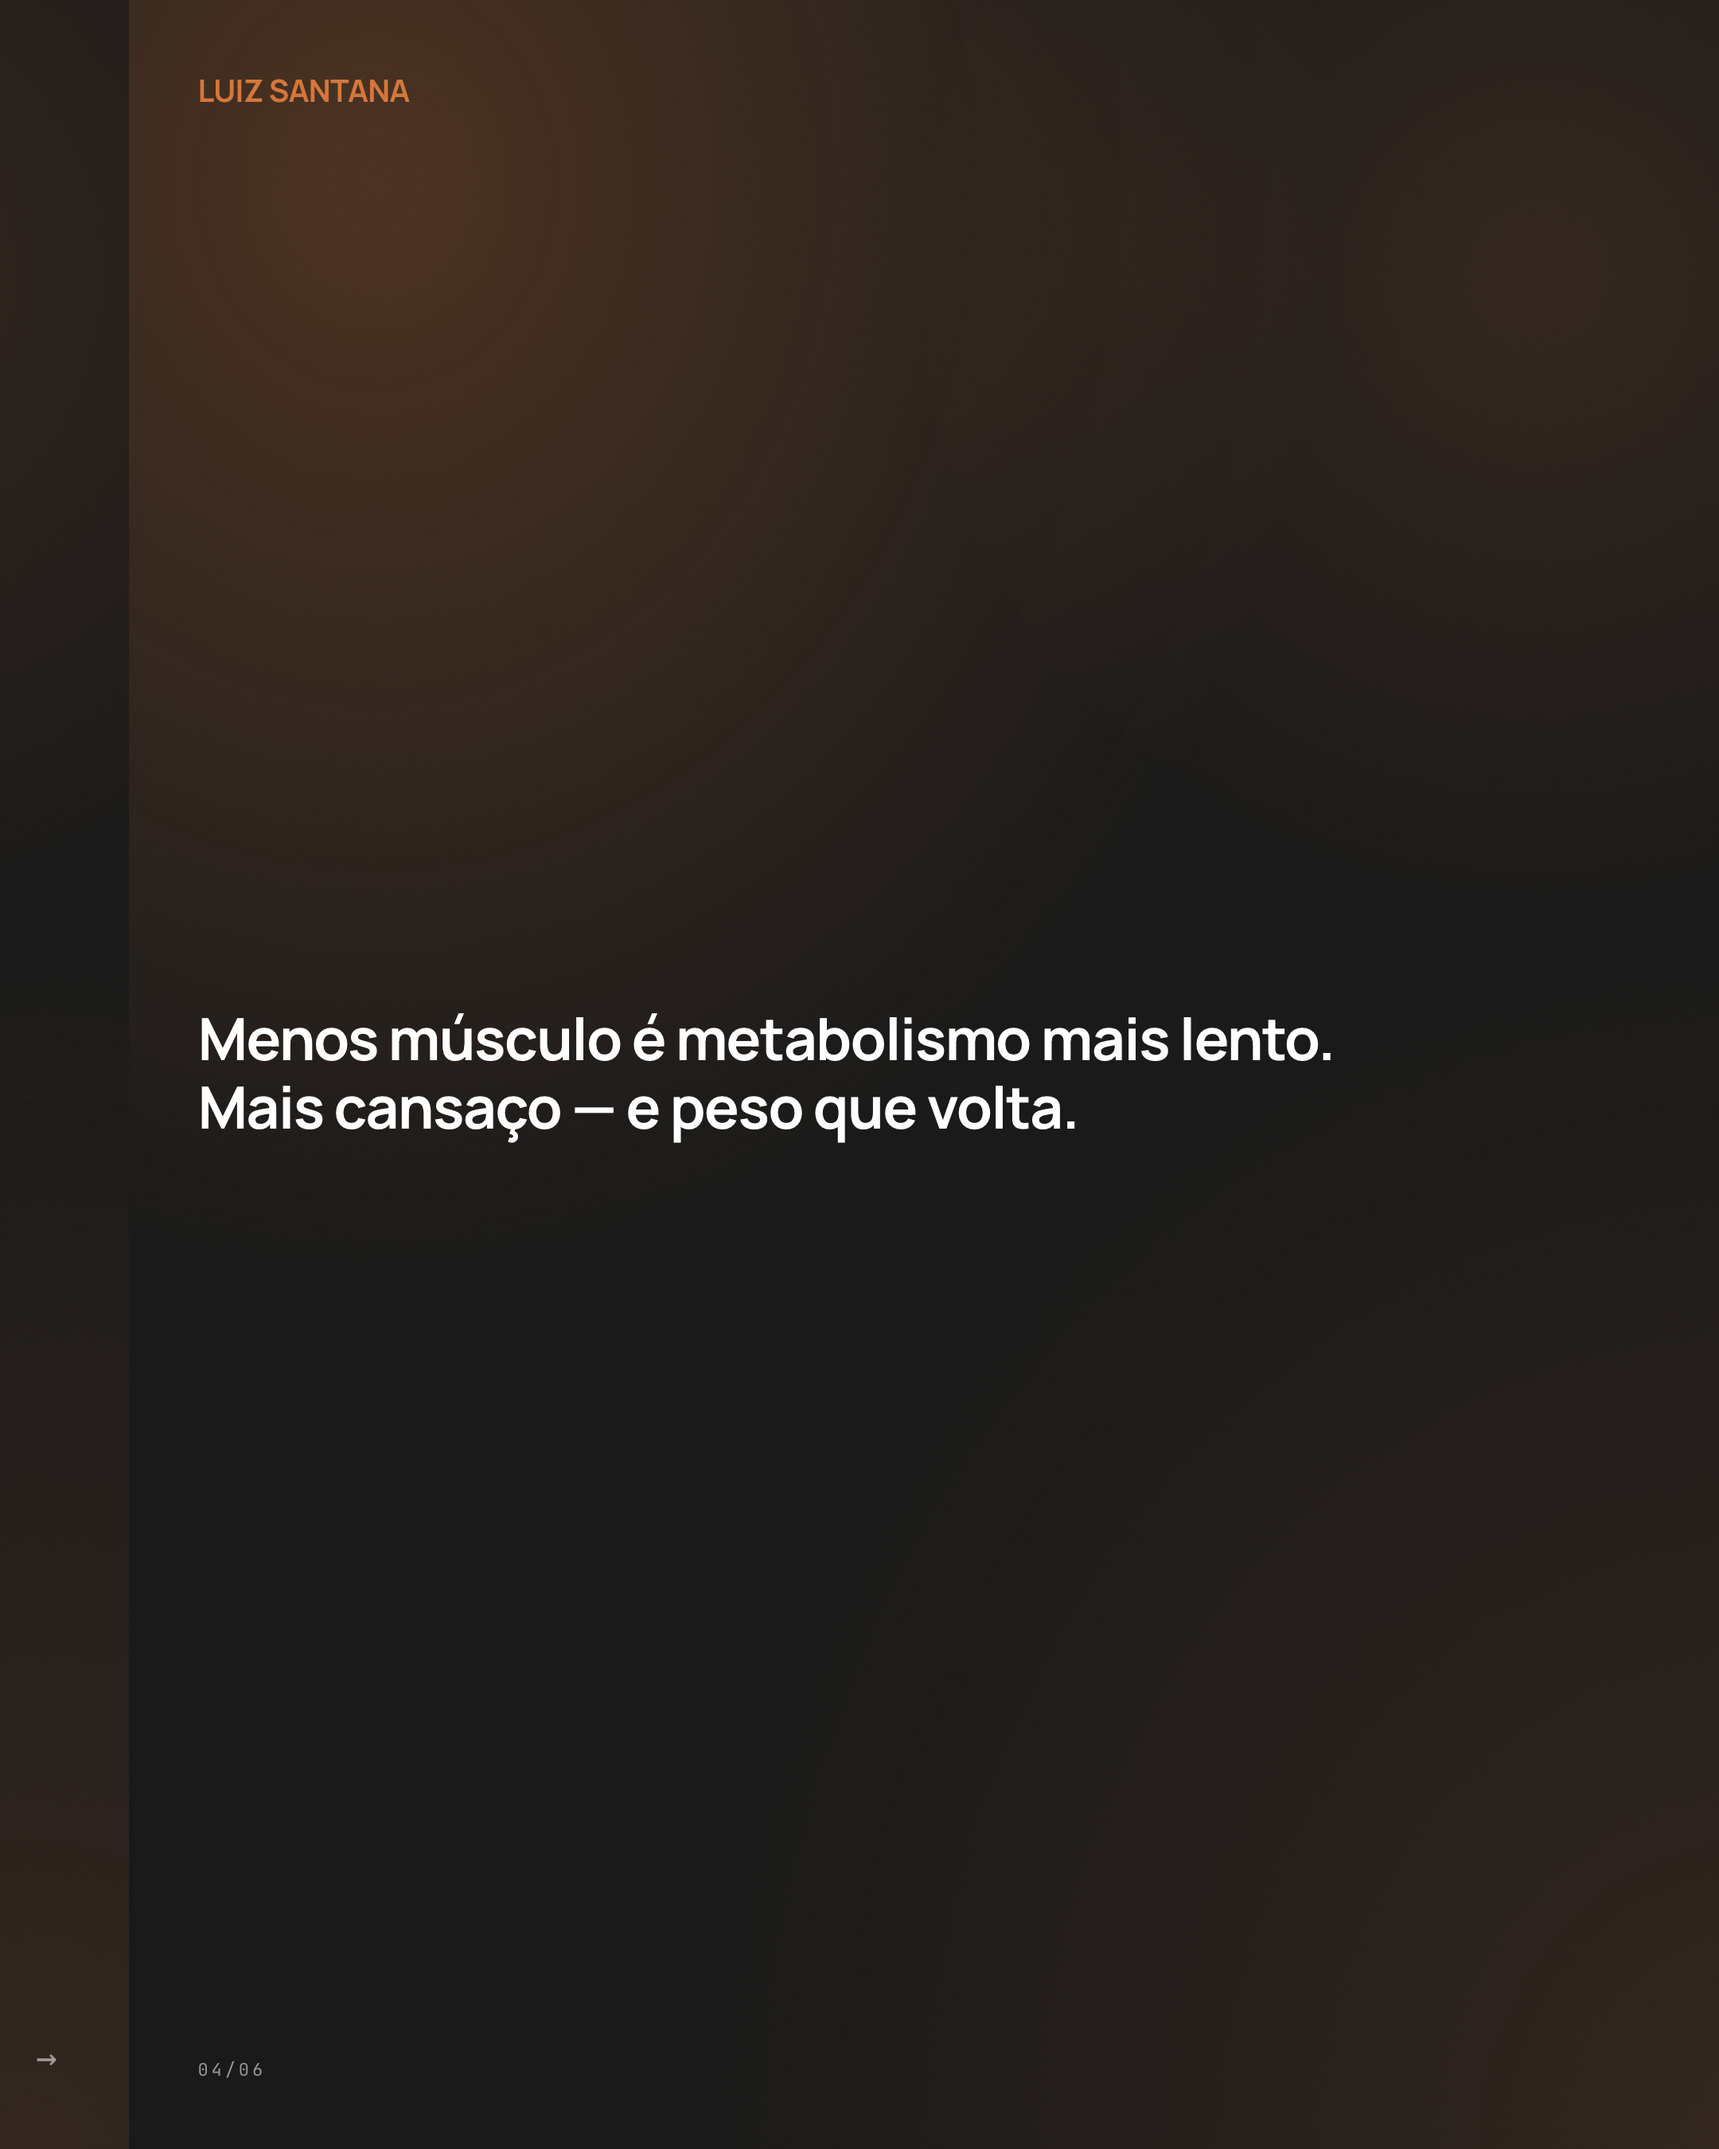
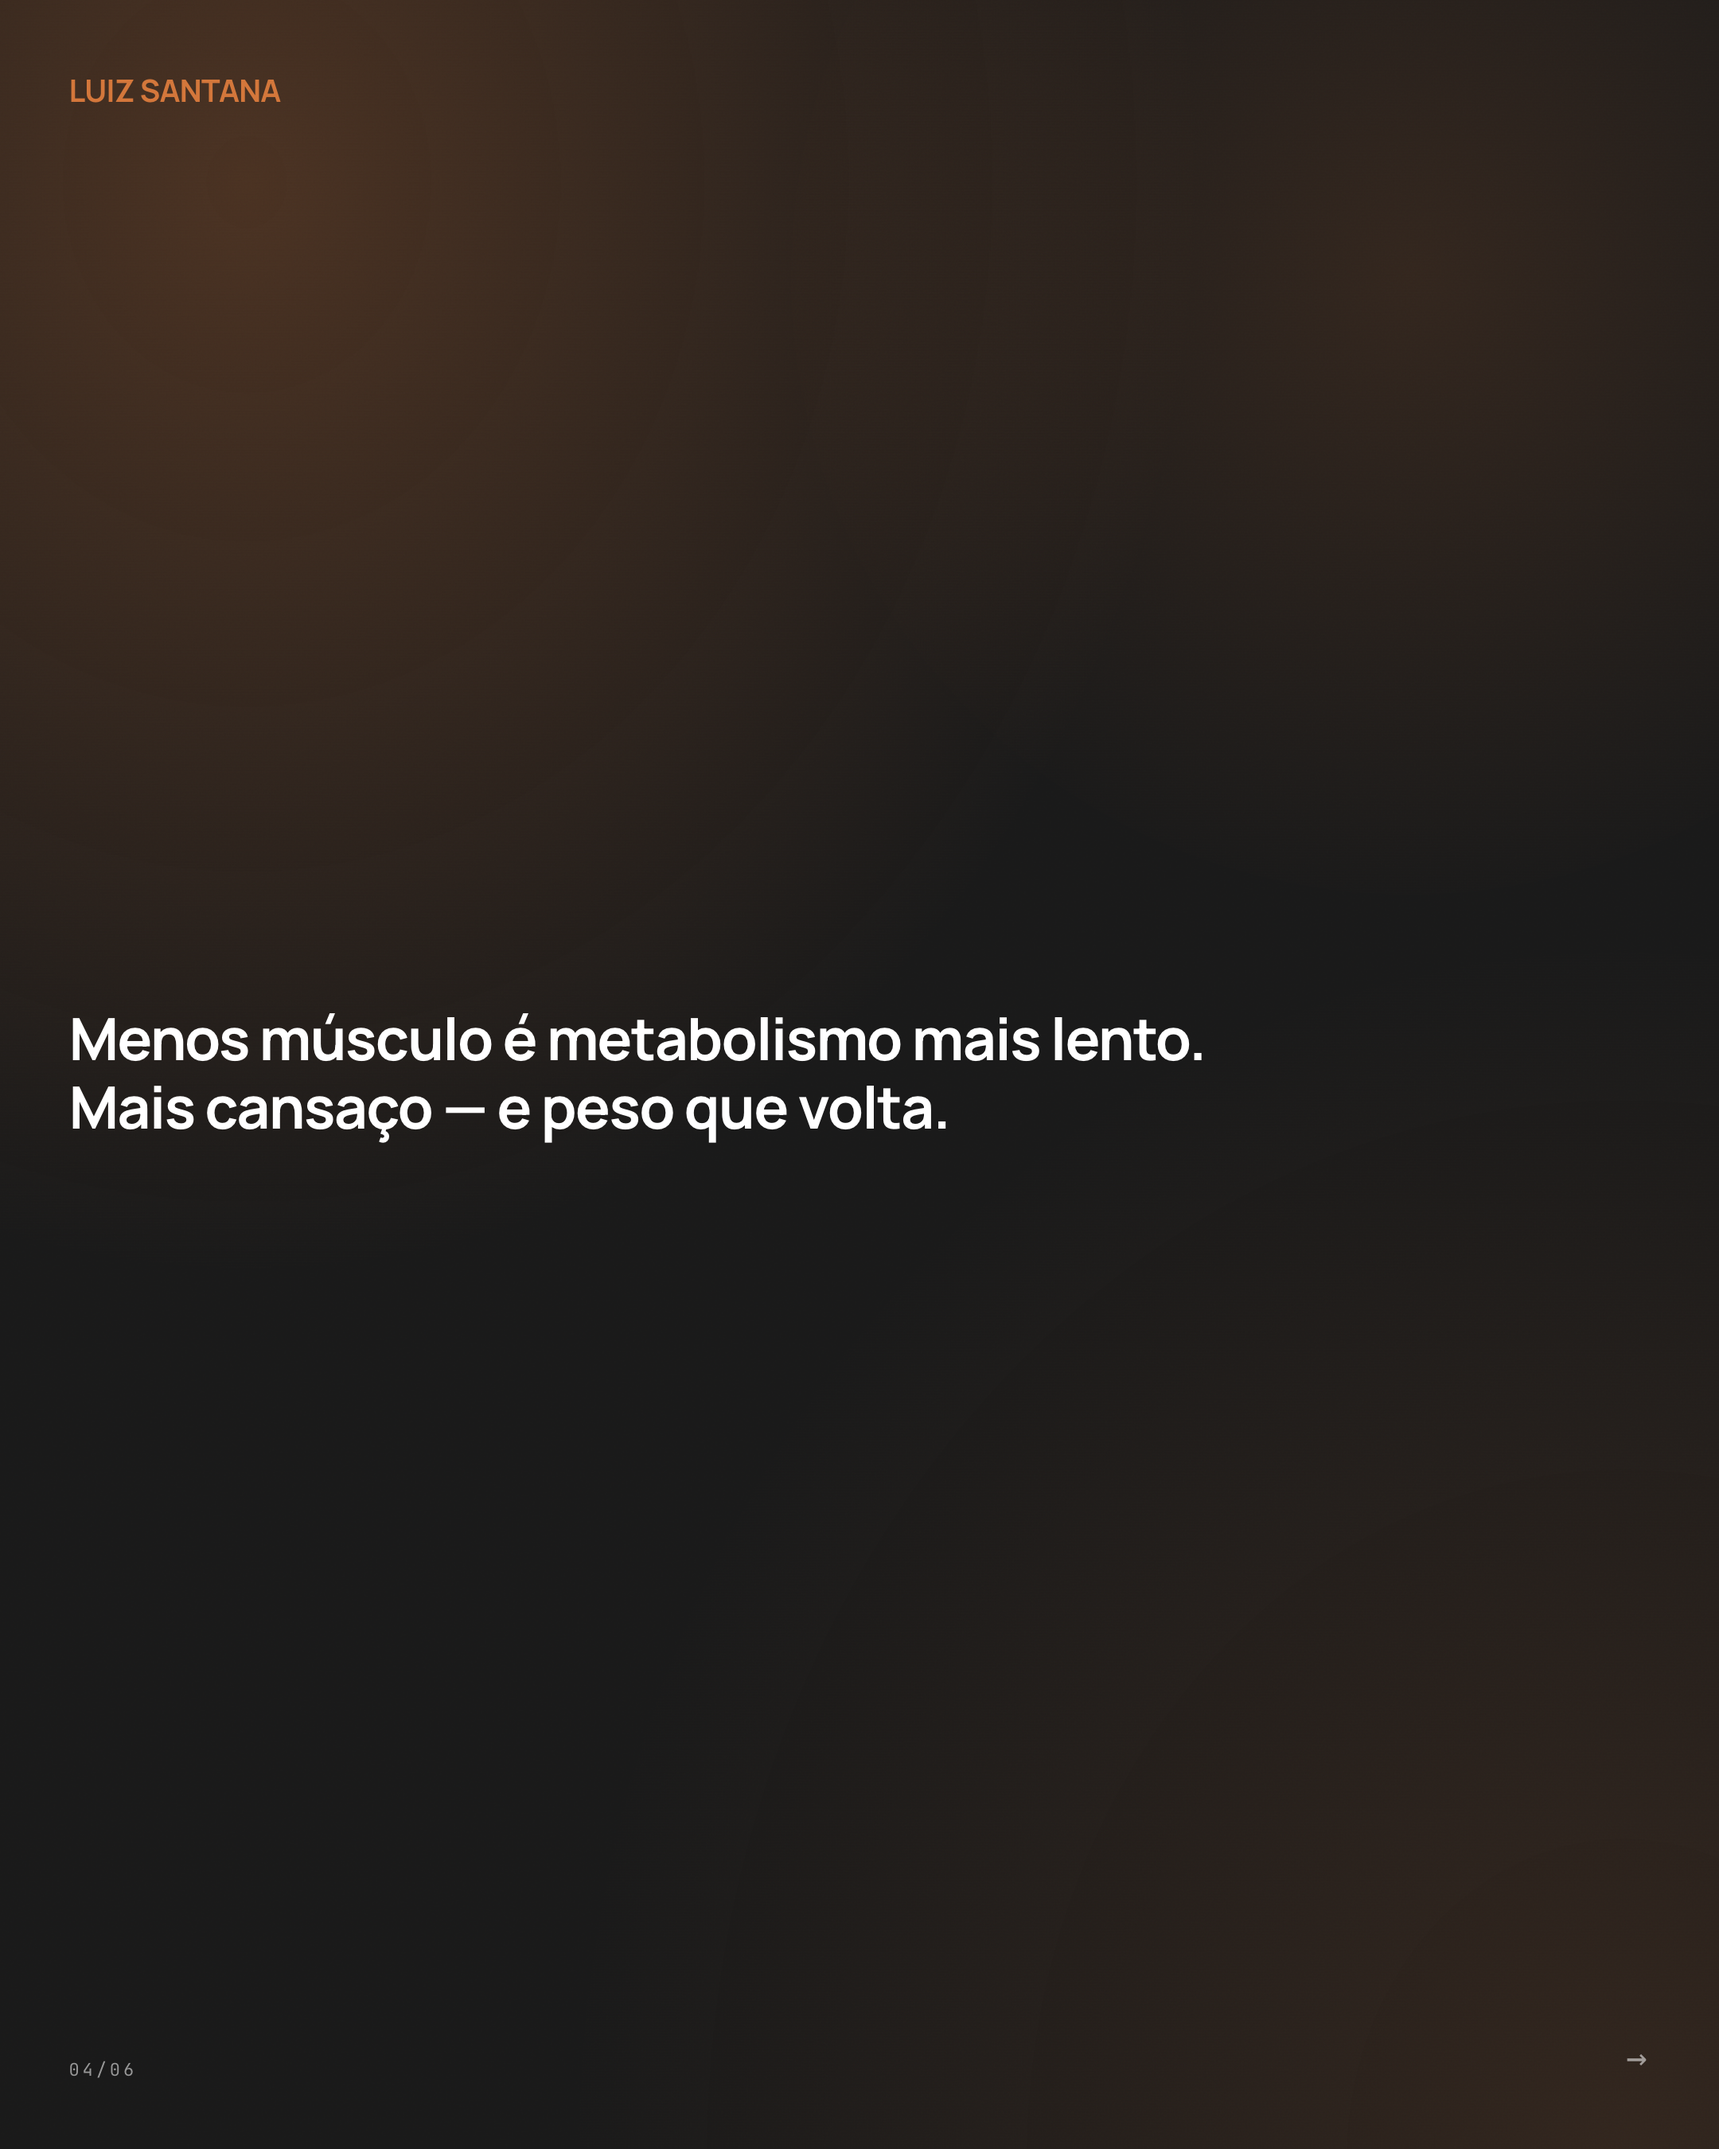
fix(luiz): capa VERDADEIRAMENTE centrada — override text-align: center !important no #slide-1 e #slide-2 (v2)
Sincronizar HTML com override que estava só no content-machine.

Changed region(s): [[0.031, 0.4667, 0.7755, 0.5289], [0.0, 0.0, 0.2481, 0.1867], [0.0, 0.9644, 0.062, 1.0]]

diff --git a/public/brands/luiz_santana/output/2026-05/carrosseis/c01-barreiras.html b/public/brands/luiz_santana/output/2026-05/carrosseis/c01-barreiras.html
@@ -168,6 +168,12 @@ h1, h2, h3, p, blockquote, .num {
   max-width: min(880px, 92%) !important; 
   margin: 0 !important;
 }
+/* Capa: reverter para centrado (Lucca feedback 19-jun) */
+#slide-1 .slide__body h1, #slide-2 .slide__body h1 { 
+  text-align: center !important; 
+  max-width: 22ch !important; 
+  text-wrap: balance !important;
+}
 .slide--photo .slide__body h1 { font-size: clamp(26px, 3.8vw, 48px) !important; line-height: 1.15 !important; max-width: min(920px, 95%) !important; } #slide-1 .slide__body h1, #slide-2 .slide__body h1 { max-width: 22ch !important; }
 .slide--type .slide__body h1 { font-size: clamp(28px, 4.2vw, 52px) !important; line-height: 1.15 !important; max-width: min(920px, 95%) !important; } #slide-1 .slide__body h1, #slide-2 .slide__body h1 { max-width: 22ch !important; }
 .slide--num .slide__body h1 { font-size: clamp(24px, 3.6vw, 44px) !important; line-height: 1.15 !important; max-width: min(920px, 95%) !important; } #slide-1 .slide__body h1, #slide-2 .slide__body h1 { max-width: 22ch !important; }

diff --git a/public/brands/luiz_santana/output/2026-05/carrosseis/c02-metodo-ciencia.html b/public/brands/luiz_santana/output/2026-05/carrosseis/c02-metodo-ciencia.html
@@ -168,6 +168,12 @@ h1, h2, h3, p, blockquote, .num {
   max-width: min(880px, 92%) !important; 
   margin: 0 !important;
 }
+/* Capa: reverter para centrado (Lucca feedback 19-jun) */
+#slide-1 .slide__body h1, #slide-2 .slide__body h1 { 
+  text-align: center !important; 
+  max-width: 22ch !important; 
+  text-wrap: balance !important;
+}
 .slide--photo .slide__body h1 { font-size: clamp(26px, 3.8vw, 48px) !important; line-height: 1.15 !important; max-width: min(920px, 95%) !important; } #slide-1 .slide__body h1, #slide-2 .slide__body h1 { max-width: 22ch !important; }
 .slide--type .slide__body h1 { font-size: clamp(28px, 4.2vw, 52px) !important; line-height: 1.15 !important; max-width: min(920px, 95%) !important; } #slide-1 .slide__body h1, #slide-2 .slide__body h1 { max-width: 22ch !important; }
 .slide--num .slide__body h1 { font-size: clamp(24px, 3.6vw, 44px) !important; line-height: 1.15 !important; max-width: min(920px, 95%) !important; } #slide-1 .slide__body h1, #slide-2 .slide__body h1 { max-width: 22ch !important; }

diff --git a/public/brands/luiz_santana/output/2026-05/carrosseis/c03-origem-percurso.html b/public/brands/luiz_santana/output/2026-05/carrosseis/c03-origem-percurso.html
@@ -168,6 +168,12 @@ h1, h2, h3, p, blockquote, .num {
   max-width: min(880px, 92%) !important; 
   margin: 0 !important;
 }
+/* Capa: reverter para centrado (Lucca feedback 19-jun) */
+#slide-1 .slide__body h1, #slide-2 .slide__body h1 { 
+  text-align: center !important; 
+  max-width: 22ch !important; 
+  text-wrap: balance !important;
+}
 .slide--photo .slide__body h1 { font-size: clamp(26px, 3.8vw, 48px) !important; line-height: 1.15 !important; max-width: min(920px, 95%) !important; } #slide-1 .slide__body h1, #slide-2 .slide__body h1 { max-width: 22ch !important; }
 .slide--type .slide__body h1 { font-size: clamp(28px, 4.2vw, 52px) !important; line-height: 1.15 !important; max-width: min(920px, 95%) !important; } #slide-1 .slide__body h1, #slide-2 .slide__body h1 { max-width: 22ch !important; }
 .slide--num .slide__body h1 { font-size: clamp(24px, 3.6vw, 44px) !important; line-height: 1.15 !important; max-width: min(920px, 95%) !important; } #slide-1 .slide__body h1, #slide-2 .slide__body h1 { max-width: 22ch !important; }

diff --git a/public/brands/luiz_santana/output/2026-05/carrosseis/c04-b2b-ferramenta.html b/public/brands/luiz_santana/output/2026-05/carrosseis/c04-b2b-ferramenta.html
@@ -168,6 +168,12 @@ h1, h2, h3, p, blockquote, .num {
   max-width: min(880px, 92%) !important; 
   margin: 0 !important;
 }
+/* Capa: reverter para centrado (Lucca feedback 19-jun) */
+#slide-1 .slide__body h1, #slide-2 .slide__body h1 { 
+  text-align: center !important; 
+  max-width: 22ch !important; 
+  text-wrap: balance !important;
+}
 .slide--photo .slide__body h1 { font-size: clamp(26px, 3.8vw, 48px) !important; line-height: 1.15 !important; max-width: min(920px, 95%) !important; } #slide-1 .slide__body h1, #slide-2 .slide__body h1 { max-width: 22ch !important; }
 .slide--type .slide__body h1 { font-size: clamp(28px, 4.2vw, 52px) !important; line-height: 1.15 !important; max-width: min(920px, 95%) !important; } #slide-1 .slide__body h1, #slide-2 .slide__body h1 { max-width: 22ch !important; }
 .slide--num .slide__body h1 { font-size: clamp(24px, 3.6vw, 44px) !important; line-height: 1.15 !important; max-width: min(920px, 95%) !important; } #slide-1 .slide__body h1, #slide-2 .slide__body h1 { max-width: 22ch !important; }

diff --git a/public/brands/luiz_santana/output/2026-05/carrosseis/c05-emagrecimento-glp1.html b/public/brands/luiz_santana/output/2026-05/carrosseis/c05-emagrecimento-glp1.html
@@ -114,6 +114,12 @@ h1, h2, h3, p, blockquote, .num {
   max-width: min(880px, 92%) !important; 
   margin: 0 !important;
 }
+/* Capa: reverter para centrado (Lucca feedback 19-jun) */
+#slide-1 .slide__body h1, #slide-2 .slide__body h1 { 
+  text-align: center !important; 
+  max-width: 22ch !important; 
+  text-wrap: balance !important;
+}
 .slide--photo .slide__body h1 { font-size: clamp(26px, 3.8vw, 48px) !important; line-height: 1.15 !important; max-width: min(920px, 95%) !important; } #slide-1 .slide__body h1, #slide-2 .slide__body h1 { max-width: 22ch !important; }
 .slide--type .slide__body h1 { font-size: clamp(28px, 4.2vw, 52px) !important; line-height: 1.15 !important; max-width: min(920px, 95%) !important; } #slide-1 .slide__body h1, #slide-2 .slide__body h1 { max-width: 22ch !important; }
 .slide--num .slide__body h1 { font-size: clamp(24px, 3.6vw, 44px) !important; line-height: 1.15 !important; max-width: min(920px, 95%) !important; } #slide-1 .slide__body h1, #slide-2 .slide__body h1 { max-width: 22ch !important; }
